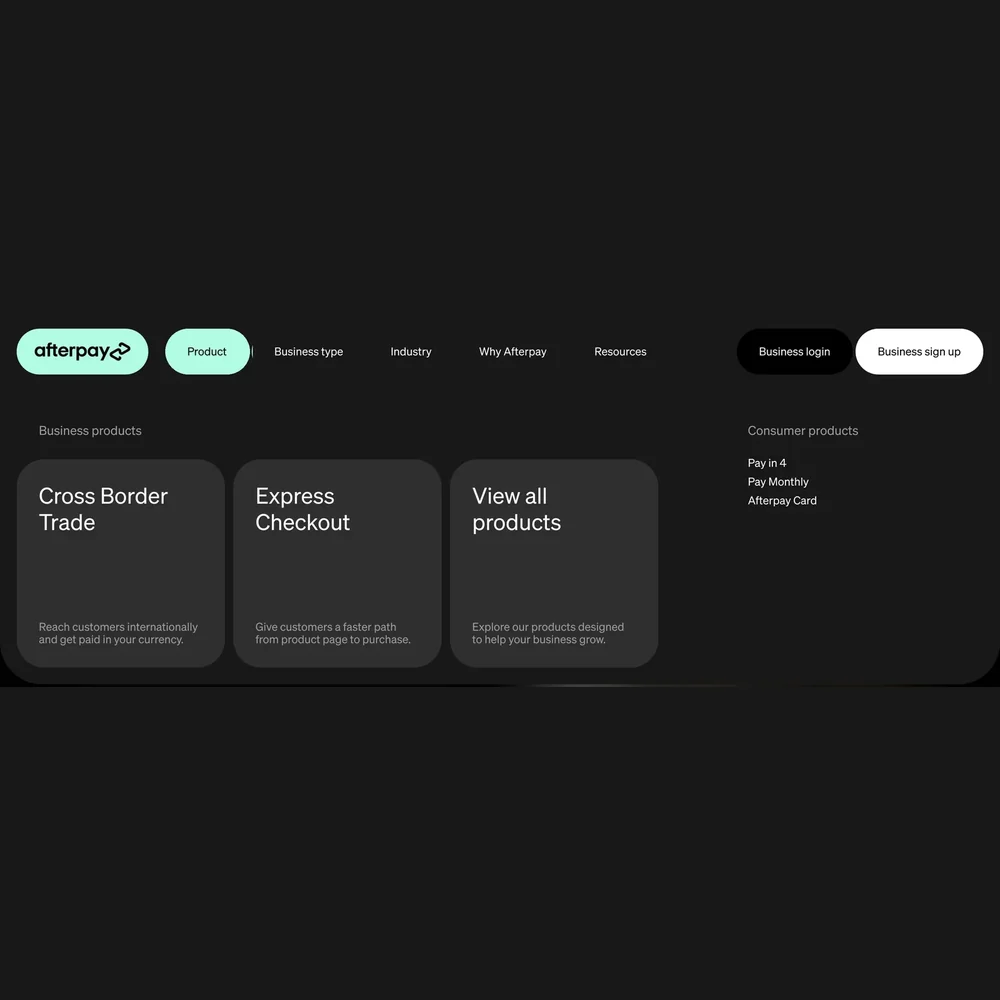
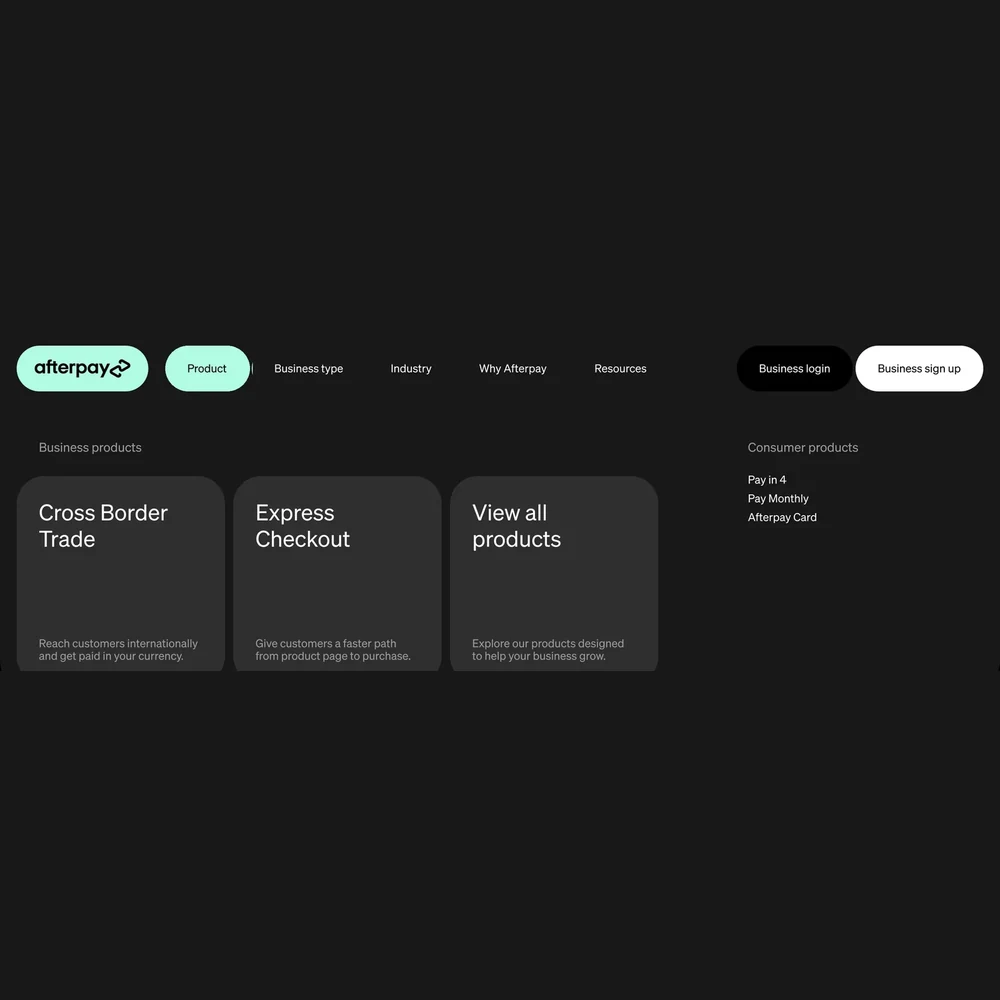
Steady the phone experience, and left align the highlighted studies
The panel now opens on the tap rather than when the page arrives, with
the project's own title holding the space, and the fetch starts as the
finger lands. The page behind is held by a fixed body and put back where
it was on close, which is what iOS actually respects; overflow alone let
it scroll and jump.

The scroll driven theme has two marks instead of one, so bouncing at the
top of the page no longer flicks between light and dark, and the sideways
swipe snaps by proximity rather than mandatorily.

In Case studies across phases, the heading, the competencies and each
study now share one left edge with All work below, rather than the words
and cards sitting centred.

Gallery screens run side by side in the panel instead of stacking, the
Afterpay site thumbnail no longer carries dark notches from the page
behind the menu, and the Threshold case study says "the owner" rather
than naming her.

Claude-Session: https://claude.ai/code/session_01HJFtfkAXtJCvjrJkW4tshW

diff --git a/index.html b/index.html
@@ -14,7 +14,7 @@
     // or system theme as usual.
     document.documentElement.setAttribute('data-theme', 'light');
   </script>
-  <link rel="stylesheet" href="styles.css?v=64">
+  <link rel="stylesheet" href="styles.css?v=65">
 </head>
 <body>
   <header class="nav">
@@ -91,7 +91,7 @@
             </div>
           </li>
           <li class="compvis__card" id="card-execution" data-stage="execution" data-project="/projectafterpaywebsite">
-            <span class="compvis__img compvis__img--shot"><img src="assets/img/home/afterpay-site-1.webp" alt="The Afterpay business site’s main navigation, open on Product" loading="lazy" decoding="async"></span>
+            <span class="compvis__img compvis__img--shot"><img src="assets/img/home/afterpay-site-1.webp?v=2" alt="The Afterpay business site’s main navigation, open on Product" loading="lazy" decoding="async"></span>
             <div class="compvis__info">
               <div class="compvis__text">
                 <p class="compvis__pillar">Execution</p>
@@ -459,9 +459,15 @@
       // Desktop scrolls up and down; phones and small tablets scroll sideways.
       var list = root.querySelector('.compvis__cards');
       function sideways() { return getComputedStyle(list).flexDirection === 'row'; }
-      function mid(el) { return sideways() ? el.offsetLeft + el.offsetWidth / 2 : el.offsetTop + el.offsetHeight / 2; }
-      function centreOf(card) {
-        return mid(card) - (sideways() ? viewport.clientWidth : viewport.clientHeight) / 2;
+      function inset() { return parseFloat(getComputedStyle(list).paddingLeft) || 0; }
+      // Down the page, the study in play sits in the middle of the window.
+      // Across a phone it sits at the gutter, in line with everything else.
+      function anchor(el) { return sideways() ? el.offsetLeft : el.offsetTop + el.offsetHeight / 2; }
+      function reference() {
+        return sideways() ? viewport.scrollLeft + inset() : viewport.scrollTop + viewport.clientHeight / 2;
+      }
+      function restPos(card) {
+        return anchor(card) - (sideways() ? inset() : viewport.clientHeight / 2);
       }
 
       function select(stage, instant) {
@@ -469,7 +475,7 @@
         mark(stage);
         target = stage;
         var opts = { behavior: instant || reduce ? 'auto' : 'smooth' };
-        opts[sideways() ? 'left' : 'top'] = centreOf(card);
+        opts[sideways() ? 'left' : 'top'] = restPos(card);
         viewport.scrollTo(opts);
       }
 
@@ -479,11 +485,10 @@
         ticking = true;
         requestAnimationFrame(function () {
           ticking = false;
-          var across = sideways();
-          var centre = across ? viewport.scrollLeft + viewport.clientWidth / 2 : viewport.scrollTop + viewport.clientHeight / 2;
+          var ref = reference();
           var best = null, bestDist = Infinity;
           cards.forEach(function (c) {
-            var d = Math.abs(mid(c) - centre);
+            var d = Math.abs(anchor(c) - ref);
             if (d < bestDist) { bestDist = d; best = c; }
           });
           // While a hover-triggered scroll is travelling, keep the chosen stage lit.
@@ -538,7 +543,7 @@
       var panel = drawer && drawer.querySelector('#study-case');
       var load = drawer && drawer.querySelector('.study__load');
       var pages = {};
-      var current = null, opener = null, closeTimer = null;
+      var current = null, opener = null, closeTimer = null, lockedAt = 0;
 
       function get(url) {
         return fetch(url, { credentials: 'same-origin' }).then(function (res) {
@@ -577,11 +582,21 @@
         return true;
       }
 
+      // The panel opens on the tap, not when the page arrives, so a slow
+      // connection never looks like a dead link. The title of whatever was
+      // tapped holds the space until the content lands.
       function show(href, from) {
         if (!href || !drawer) return;
-        fetchPage(href).then(function (html) {
-          if (!fill(html, href)) { location.href = href; return; }
+        var pending = href;
+        if (current !== href) {
+          var label = from && from.closest('.card, .compvis__card');
+          var name = label && label.querySelector('.card__title, .compvis__name');
+          load.innerHTML = name ? '<div class="case__head"><h2 class="case__title">' + name.textContent + '</h2></div>' : '';
           open(href, from);
+        }
+        fetchPage(href).then(function (html) {
+          if (current !== pending) return;   // closed, or moved on, while it loaded
+          if (!fill(html, href)) location.href = href;
         }).catch(function () { location.href = href; });
       }
 
@@ -589,6 +604,10 @@
         clearTimeout(closeTimer);
         current = href;
         opener = from;
+        // iOS ignores overflow on the page behind a fixed panel, so hold the
+        // page in place and put the visitor back where they were on close.
+        lockedAt = window.scrollY;
+        document.body.style.top = -lockedAt + 'px';
         drawer.hidden = false;
         drawer.classList.remove('is-closing');
         panel.hidden = false;
@@ -605,6 +624,8 @@
         drawer.classList.remove('is-open');
         drawer.classList.add('is-closing');
         document.documentElement.classList.remove('has-drawer');
+        document.body.style.top = '';
+        window.scrollTo(0, lockedAt);
         closeTimer = setTimeout(function () {
           drawer.hidden = true;
           drawer.classList.remove('is-closing');
@@ -625,7 +646,9 @@
           ev.preventDefault();
           show(href, a);
         });
-        a.addEventListener('mouseenter', function () { fetchPage(href).catch(function () {}); });
+        ['mouseenter', 'touchstart'].forEach(function (type) {
+          a.addEventListener(type, function () { fetchPage(href).catch(function () {}); }, { passive: true });
+        });
       });
 
       if (drawer) {
@@ -764,7 +787,11 @@
     (function () {
       var root = document.documentElement;
       function sync() {
-        root.setAttribute('data-theme', window.scrollY > 8 ? 'dark' : 'light');
+        // Two marks rather than one, so a phone bouncing at the top of the
+        // page does not flick between the two themes.
+        var y = window.scrollY;
+        if (y > 70) root.setAttribute('data-theme', 'dark');
+        else if (y < 12) root.setAttribute('data-theme', 'light');
       }
       sync();
       window.addEventListener('scroll', sync, { passive: true });

diff --git a/projectthreshold.html b/projectthreshold.html
@@ -17,7 +17,7 @@
       document.documentElement.setAttribute('data-theme', t);
     })();
   </script>
-  <link rel="stylesheet" href="styles.css?v=64">
+  <link rel="stylesheet" href="styles.css?v=65">
 </head>
 <body>
   <header class="nav">
@@ -41,7 +41,7 @@
       <h1 class="case__title">Threshold, a booking engine for Salty Cowboy</h1>
       <p class="case__summary">How a horse rescue turned manual booking approvals into a system that only offers rides that fit.</p>
       <dl class="case__facts">
-        <div><dt>The customer</dt><dd>Riders booking with Salty Cowboy, and Simone, who runs it</dd></div>
+        <div><dt>The customer</dt><dd>Riders booking with Salty Cowboy, and the owner who runs it</dd></div>
         <div><dt>Team</dt><dd>Just me: I designed, built and shipped it</dd></div>
         <div><dt>Skills</dt><dd><ul class="tags"><li>Product design (end-to-end)</li><li>Discovery</li><li>Built with AI</li><li>Localisation</li></ul></dd></div>
       </dl>
@@ -51,23 +51,23 @@
 
     <section class="case__row" aria-labelledby="problem">
       <h2 class="section-title" id="problem" data-reveal>The problem</h2>
-      <p class="case__lead" data-reveal>Every booking arrived as a WhatsApp message. Simone screened each rider by hand, in three languages, and every mismatch caught late was a slot that could sit empty.</p>
+      <p class="case__lead" data-reveal>Every booking arrived as a WhatsApp message. The owner screened each rider by hand, in three languages, and every mismatch caught late was a slot that could sit empty.</p>
     </section>
 
     <section class="case__row" aria-labelledby="solution">
       <h2 class="section-title" id="solution" data-reveal>How I solved it</h2>
       <ol class="case__steps" data-reveal>
-            <li><span class="case__num">01</span><span>Found the real constraint: nothing on the market held bookings and horse welfare together, and Simone won’t do admin, so nothing could depend on her maintaining it.</span></li>
+            <li><span class="case__num">01</span><span>Found the real constraint: nothing on the market held bookings and horse welfare together, and the owner won’t do admin, so nothing could depend on them maintaining it.</span></li>
             <li><span class="case__num">02</span><span>Ruled out a settings page and built every rule into the product itself: a rider weight cap, per-activity durations and pricing, and a three day course booked as one block.</span></li>
             <li><span class="case__num">03</span><span>Asked riders for their experience and weight up front, so rides and horses that don’t suit them never appear.</span></li>
-            <li><span class="case__num">04</span><span>Made it trilingual (English, Indonesian and Russian), with a clean English summary Simone approves in one WhatsApp message.</span></li>
+            <li><span class="case__num">04</span><span>Made it trilingual (English, Indonesian and Russian), with a clean English summary the owner approves in one WhatsApp message.</span></li>
             <li><span class="case__num">05</span><span>Used AI across all of it: discovery synthesis, the design system and the build.</span></li>
       </ol>
     </section>
 
     <section class="case__row" aria-labelledby="outcome">
       <h2 class="section-title" id="outcome" data-reveal>Outcome</h2>
-      <p class="case__lead case__lead--ink" data-reveal>Simone still gives the final yes on every ride. She just no longer has to be the filter.</p>
+      <p class="case__lead case__lead--ink" data-reveal>The owner still gives the final yes on every ride. They just no longer have to be the filter.</p>
       <ul class="case__links" data-reveal><li><a class="link" href="https://threshold-00.github.io/booking.info/case-study.html" target="_blank" rel="noopener">Read the full case study <span class="visually-hidden">(opens in a new tab)</span><svg class="icon icon--arrow" viewBox="0 -960 960 960" aria-hidden="true" focusable="false"><path d="m256-240-56-56 384-384H240v-80h480v480h-80v-344L256-240Z"/></svg></a></li><li><a class="link" href="https://threshold-00.github.io/salty-cowboy/" target="_blank" rel="noopener">See it live <span class="visually-hidden">(opens in a new tab)</span><svg class="icon icon--arrow" viewBox="0 -960 960 960" aria-hidden="true" focusable="false"><path d="m256-240-56-56 384-384H240v-80h480v480h-80v-344L256-240Z"/></svg></a></li></ul>
     </section>
 
@@ -85,7 +85,7 @@
               <div class="flow__box"><svg class="icon flow__arrow" viewBox="0 -960 960 960" aria-hidden="true"><path d="M647-440H160v-80h487L423-744l57-56 320 320-320 320-57-56 224-224Z"/></svg><div class="flow__text">The rider books only from what fits.</div></div>
             </li>
             <li class="flow__step">
-              <div class="flow__box"><svg class="icon flow__arrow" viewBox="0 -960 960 960" aria-hidden="true"><path d="M647-440H160v-80h487L423-744l57-56 320 320-320 320-57-56 224-224Z"/></svg><div class="flow__text">Simone approves a clean summary in one message.</div></div>
+              <div class="flow__box"><svg class="icon flow__arrow" viewBox="0 -960 960 960" aria-hidden="true"><path d="M647-440H160v-80h487L423-744l57-56 320 320-320 320-57-56 224-224Z"/></svg><div class="flow__text">The owner approves a clean summary in one message.</div></div>
             </li>
           </ol>
           <figcaption>How the gating works.</figcaption>
@@ -101,7 +101,7 @@
           </figure>
           <figure class="case__figure" data-reveal>
             <img src="assets/img/cases/threshold-4.webp" alt="Booking summary with activity, date, people and total cost" loading="lazy" decoding="async">
-            <figcaption>The summary Simone approves before anything is confirmed.</figcaption>
+            <figcaption>The summary the owner approves before anything is confirmed.</figcaption>
           </figure>
         </div>
       </section>

diff --git a/styles.css b/styles.css
@@ -743,7 +743,7 @@ a { color: inherit; text-decoration: none; }
 
 @media (max-width: 900px) {
   .compvis { grid-template-columns: minmax(0, 1fr); grid-template-rows: auto auto auto; }
-  .compvis__diagram { grid-row: 2; margin: 32px 0; justify-self: center; }
+  .compvis__diagram { grid-row: 2; margin: 32px 0; justify-self: start; }
   .compvis__stages { flex-direction: row; gap: 24px; }
   /* Case studies become a sideways swipe, each snapping to the centre. */
   .compvis__viewport {
@@ -754,17 +754,21 @@ a { color: inherit; text-decoration: none; }
     margin: 0 calc(var(--gutter) * -1);
     overflow-x: auto;
     overflow-y: hidden;
-    scroll-snap-type: x mandatory;
+    scroll-snap-type: x proximity;
+    /* Snapping aligns to the scrollport, so hold it in from the page edge to
+       keep each study in line with the heading above it. */
+    scroll-padding-left: var(--gutter);
   }
   .compvis__cards {
     flex-direction: row;
     align-items: flex-start;
     gap: 24px;
     width: max-content;
-    /* Side padding lets the first and last study sit in the centre too. */
-    padding: 0 calc((100vw - var(--card)) / 2) 48px;
+    /* Each study starts at the page gutter, in line with the heading, the
+       competencies and the All work section below. */
+    padding: 0 var(--gutter) 48px;
   }
-  .compvis__card { flex: 0 0 var(--card); flex-direction: column; gap: 16px; }
+  .compvis__card { flex: 0 0 var(--card); flex-direction: column; gap: 16px; scroll-snap-align: start; }
   .compvis__img { width: 100%; height: auto; aspect-ratio: 1; }
   .compvis__info { min-height: 0; max-width: none; gap: 20px; }
 }
@@ -1264,7 +1268,11 @@ legend.field__label { margin-bottom: 8px; }
    Opened from any project on the homepage. What fills it is the project page's
    own markup, fetched and dropped in, so there is one copy of each case study. */
 
+/* Holding the page still behind the panel. The fixed body is what actually
+   stops iOS scrolling the page underneath; the script puts the scroll
+   position back when the panel closes. */
 .has-drawer, .has-drawer body { overflow: hidden; }
+.has-drawer body { position: fixed; left: 0; right: 0; width: 100%; }
 
 .drawer { position: fixed; inset: 0; z-index: 100; }
 
@@ -1360,8 +1368,6 @@ legend.field__label { margin-bottom: 8px; }
 .study .flow__shot { margin-inline: auto; }
 .study .flow__arrow { top: calc(var(--arrow-gap) / -2); left: 50%; transform: translate(-50%, -50%) rotate(90deg); }
 .study .flow__shot { max-width: 320px; margin-inline: auto; }
-.study .case__gallery--trio,
-.study .case__gallery--pair { grid-template-columns: minmax(0, 1fr); }
 /* The way out to the full page, so a visitor can keep or share the link. */
 .study__page { margin: 32px 0 0; font-size: 16px; }
 

diff --git a/index-strips.html b/index-strips.html
@@ -17,7 +17,7 @@
       document.documentElement.setAttribute('data-theme', t);
     })();
   </script>
-  <link rel="stylesheet" href="styles.css?v=64">
+  <link rel="stylesheet" href="styles.css?v=65">
   <meta name="robots" content="noindex">
 </head>
 <body>

diff --git a/projectafterpayb2b.html b/projectafterpayb2b.html
@@ -17,7 +17,7 @@
       document.documentElement.setAttribute('data-theme', t);
     })();
   </script>
-  <link rel="stylesheet" href="styles.css?v=64">
+  <link rel="stylesheet" href="styles.css?v=65">
 </head>
 <body>
   <header class="nav">

diff --git a/projectafterpaywebsite.html b/projectafterpaywebsite.html
@@ -17,7 +17,7 @@
       document.documentElement.setAttribute('data-theme', t);
     })();
   </script>
-  <link rel="stylesheet" href="styles.css?v=64">
+  <link rel="stylesheet" href="styles.css?v=65">
 </head>
 <body>
   <header class="nav">

diff --git a/projectclimate.html b/projectclimate.html
@@ -17,7 +17,7 @@
       document.documentElement.setAttribute('data-theme', t);
     })();
   </script>
-  <link rel="stylesheet" href="styles.css?v=64">
+  <link rel="stylesheet" href="styles.css?v=65">
 </head>
 <body>
   <header class="nav">

diff --git a/projectlegaldoc.html b/projectlegaldoc.html
@@ -17,7 +17,7 @@
       document.documentElement.setAttribute('data-theme', t);
     })();
   </script>
-  <link rel="stylesheet" href="styles.css?v=64">
+  <link rel="stylesheet" href="styles.css?v=65">
 </head>
 <body>
   <header class="nav">

diff --git a/projectlocalhost.html b/projectlocalhost.html
@@ -17,7 +17,7 @@
       document.documentElement.setAttribute('data-theme', t);
     })();
   </script>
-  <link rel="stylesheet" href="styles.css?v=64">
+  <link rel="stylesheet" href="styles.css?v=65">
 </head>
 <body>
   <header class="nav">

diff --git a/projectmyki.html b/projectmyki.html
@@ -17,7 +17,7 @@
       document.documentElement.setAttribute('data-theme', t);
     })();
   </script>
-  <link rel="stylesheet" href="styles.css?v=64">
+  <link rel="stylesheet" href="styles.css?v=65">
 </head>
 <body>
   <header class="nav">

diff --git a/projectnod.html b/projectnod.html
@@ -17,7 +17,7 @@
       document.documentElement.setAttribute('data-theme', t);
     })();
   </script>
-  <link rel="stylesheet" href="styles.css?v=64">
+  <link rel="stylesheet" href="styles.css?v=65">
 </head>
 <body>
   <header class="nav">

diff --git a/projectsaf3.html b/projectsaf3.html
@@ -17,7 +17,7 @@
       document.documentElement.setAttribute('data-theme', t);
     })();
   </script>
-  <link rel="stylesheet" href="styles.css?v=64">
+  <link rel="stylesheet" href="styles.css?v=65">
 </head>
 <body>
   <header class="nav">
